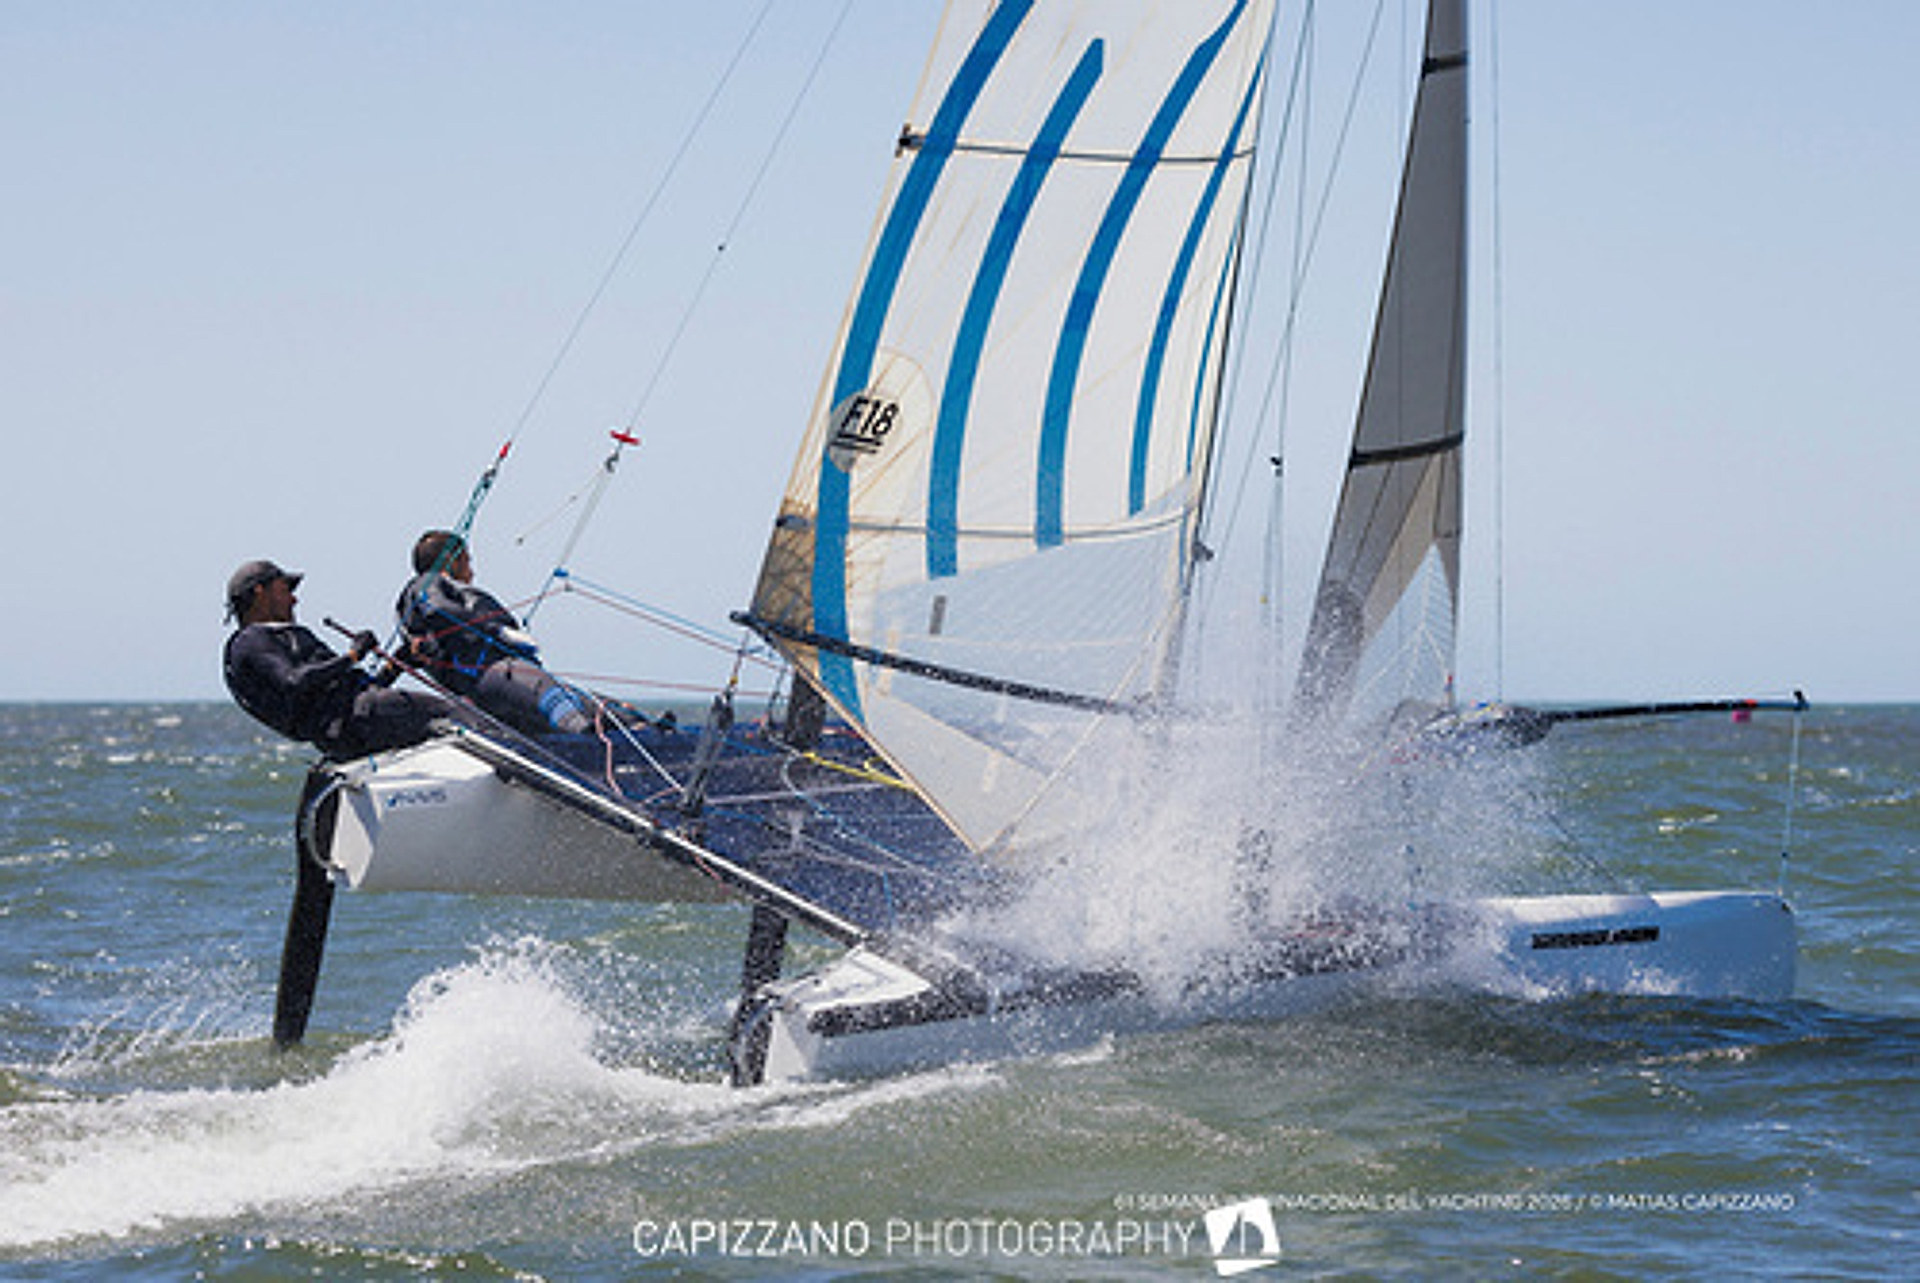
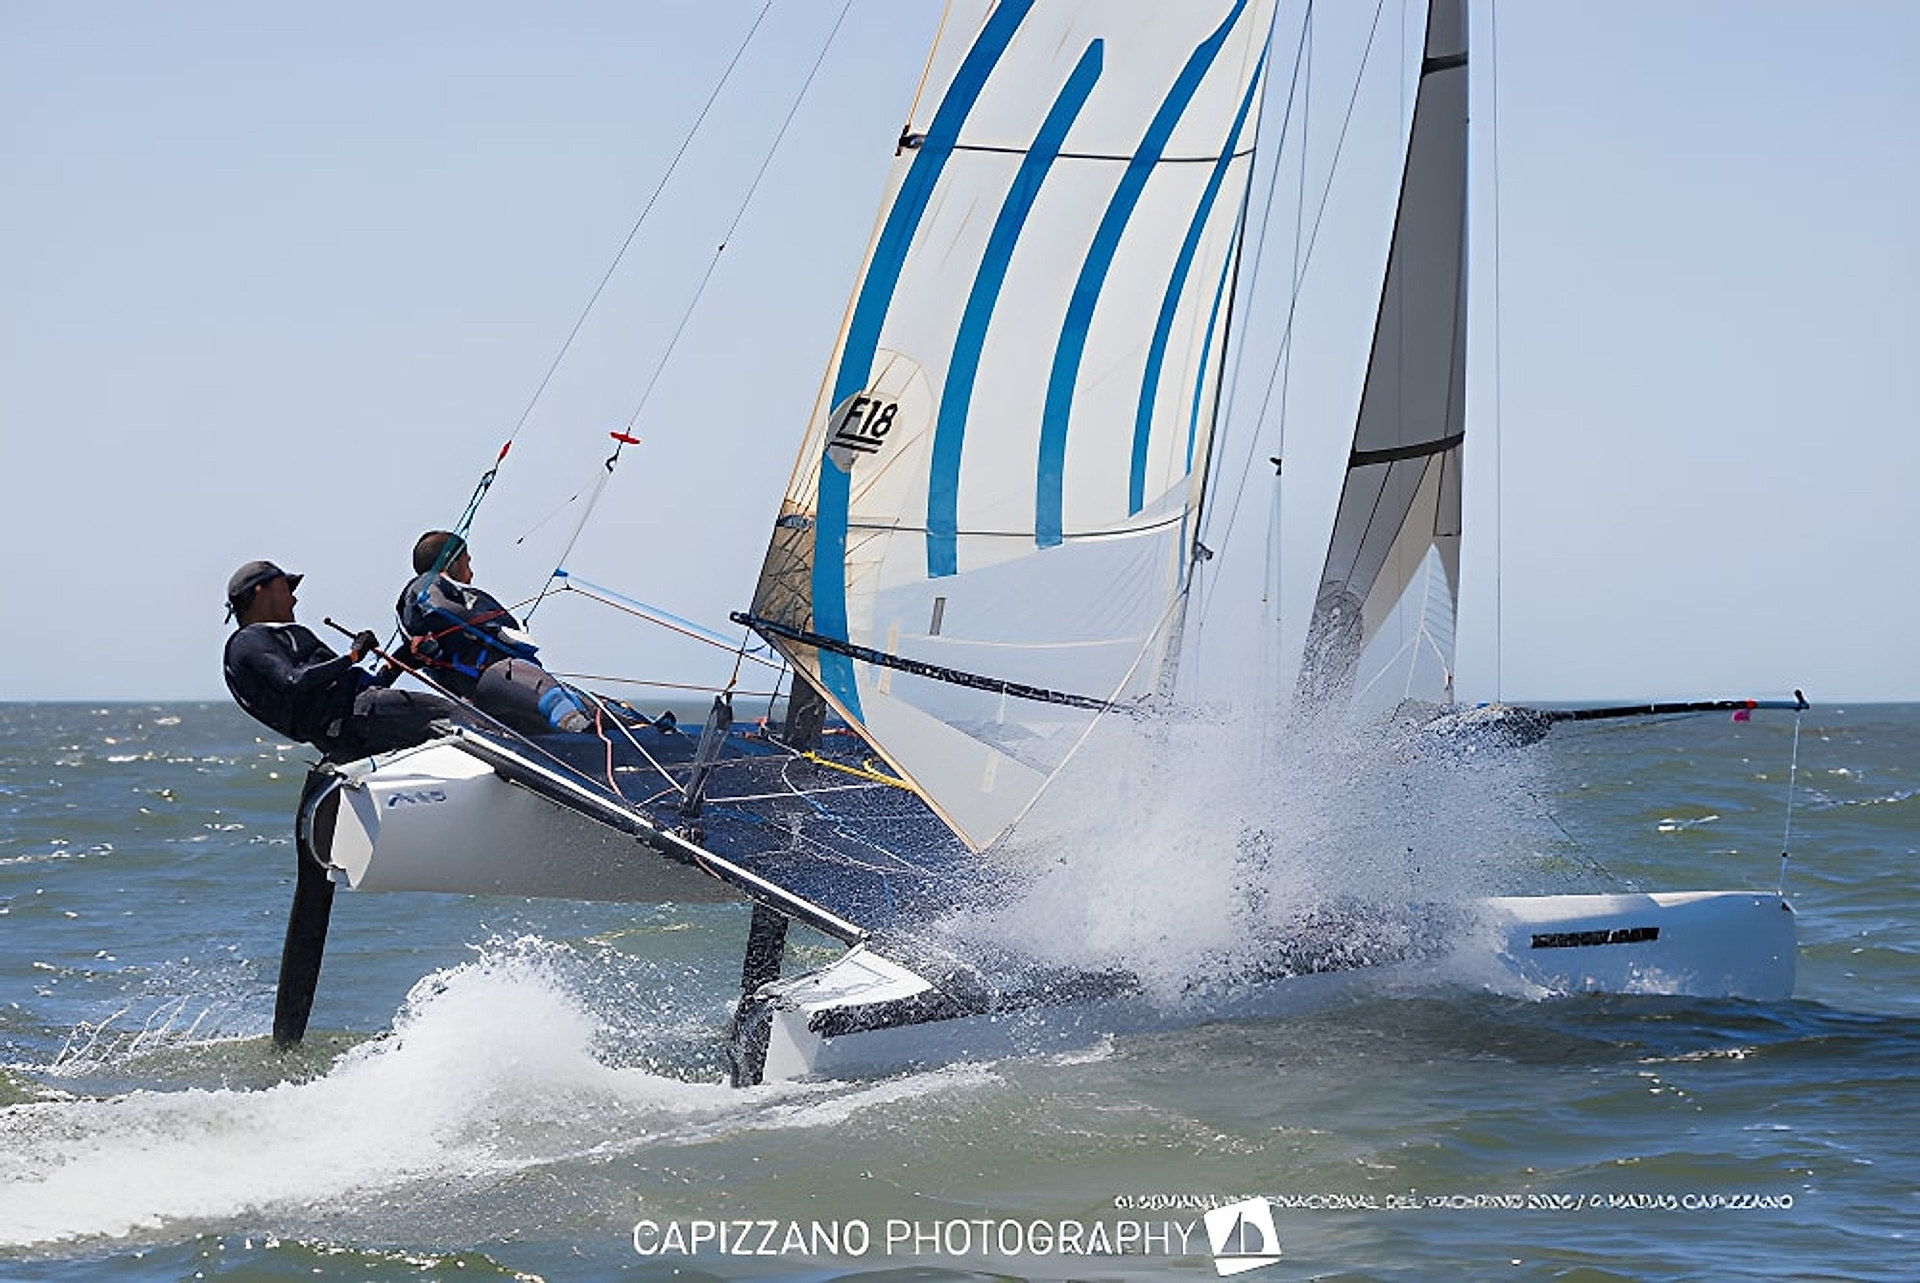
fix: reemplazar la foto del hero por la versión en mejor resolución
logos/e8f71a68-99a5-470d-af76-2c2af7d63073.jpg (1000x668, el doble que
la preview anterior de 500x334) reemplaza al origen de
scripts/upscale-hero-photo.ts. Misma escalada a 1920px de ancho
(Lanczos3 + sharpen), mismo destino (public/hero/velero-hero.jpg).

diff --git a/scripts/upscale-hero-photo.ts b/scripts/upscale-hero-photo.ts
@@ -1,18 +1,15 @@
-// Escala la foto del hero (logos/20260227 2026 SIY -mc-52404.jpg, subida
-// a 500x334px -una preview de PhotoShelter, no el archivo final en alta
-// resolución) a un tamaño usable como fondo de pantalla completa.
+// Escala la foto del hero (logos/e8f71a68-99a5-470d-af76-2c2af7d63073.jpg,
+// 1000x668px) a un tamaño usable como fondo de pantalla completa.
 //
 // OJO: esto NO es un upscaler con IA que "inventa" detalle nuevo -es un
 // resize de alta calidad (Lanczos3, el mejor kernel que tiene sharp) más
 // un paso de sharpen para compensar el suavizado que deja agrandar la
-// imagen. Se va a ver notablemente más nítida que si el navegador
-// estirara el archivo de 500px directamente, pero sigue sin tener el
-// detalle real de una foto nativa en alta resolución -si en algún
-// momento aparece el archivo original de PhotoShelter/el fotógrafo, absolutamente
-// conviene reemplazar este archivo por ese.
+// imagen. Si en algún momento aparece un archivo en mayor resolución
+// todavía, conviene actualizar ORIGEN acá abajo y volver a correr este
+// script.
 import sharp from "sharp";
 
-const ORIGEN = "logos/20260227 2026 SIY -mc-52404.jpg";
+const ORIGEN = "logos/e8f71a68-99a5-470d-af76-2c2af7d63073.jpg";
 const DESTINO = "public/hero/velero-hero.jpg";
 const ANCHO_DESTINO = 1920;
 

diff --git a/src/app/page.tsx b/src/app/page.tsx
@@ -14,11 +14,10 @@ import { ScrollReveal } from "@/components/ui/scroll-reveal";
 // Foto de fondo del hero (ver sección HERO más abajo) -mientras no esté,
 // el hero muestra un degradé como placeholder en su lugar. Es una foto
 // real de la 51ª Semana Nacional del Yachting (crédito visible: Capizzano
-// Photography), escalada desde una preview de 500x334px con
-// scripts/upscale-hero-photo.ts -no es una foto nativa en alta
-// resolución, así que si en algún momento aparece el archivo original en
-// mejor calidad, conviene reemplazar public/hero/velero-hero.jpg por ese
-// (mismo nombre, mismo lugar, no hace falta tocar este archivo).
+// Photography), escalada a 1920px de ancho con
+// scripts/upscale-hero-photo.ts. Si en algún momento aparece un archivo
+// en mejor calidad, conviene reemplazar public/hero/velero-hero.jpg por
+// ese (mismo nombre, mismo lugar, no hace falta tocar este archivo).
 const FOTO_HERO_PATH = path.join(process.cwd(), "public", "hero", "velero-hero.jpg");
 
 // Sin esto, Next.js pre-renderiza esta página como HTML ESTÁTICO en cada
